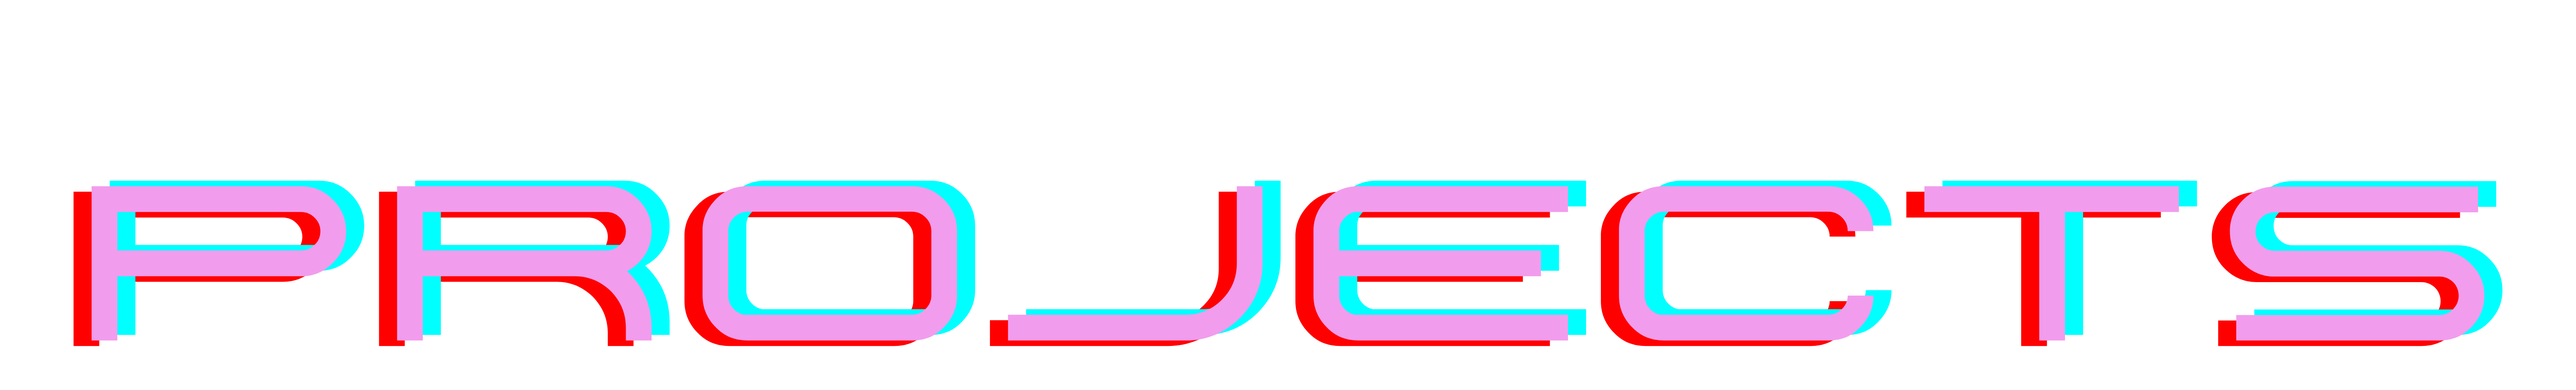
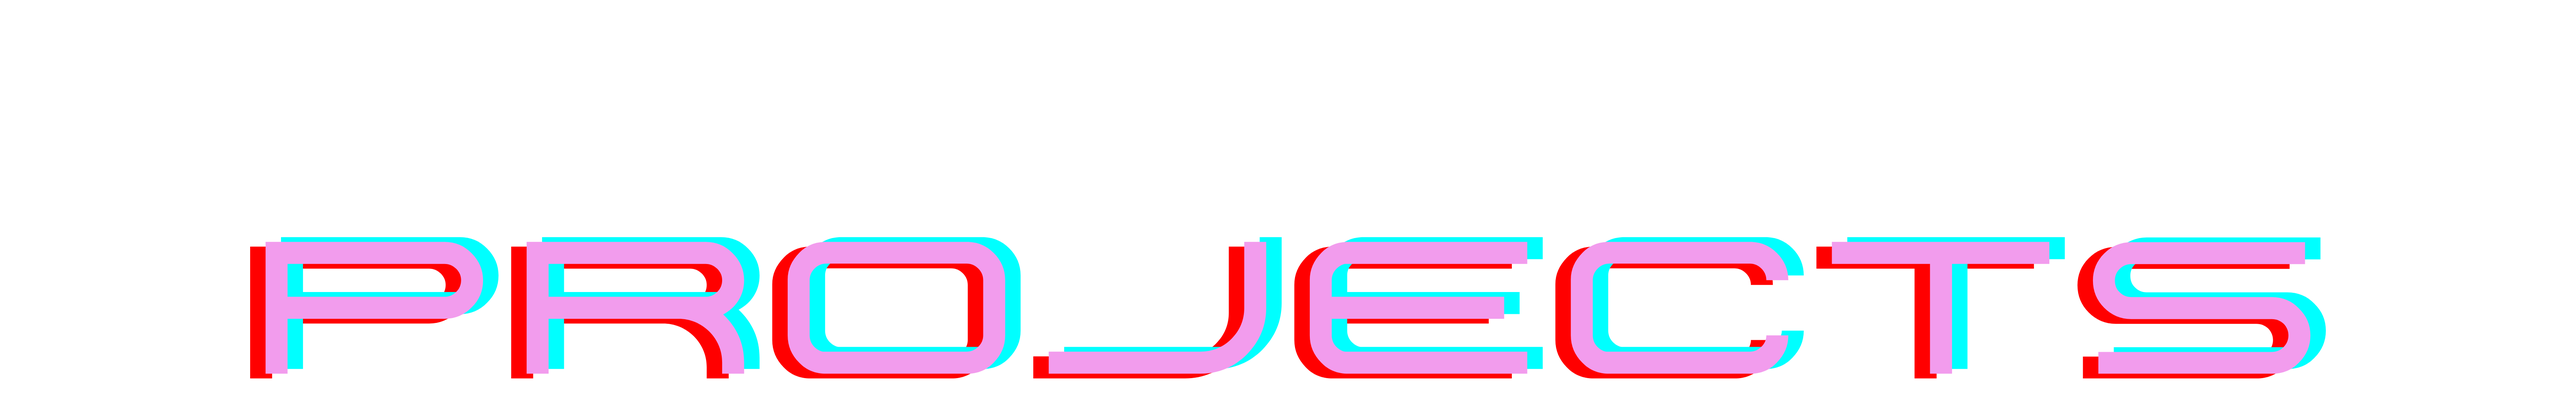
Added a font, shrunk and centered header images, began positioning contact page elements

Changed region(s): [[0.0312, 0.4593, 0.9984, 0.9187]]

diff --git a/portfolio-web/src/App.scss b/portfolio-web/src/App.scss
@@ -13,20 +13,7 @@
   }
 }
 
-.App-header {
-  background-color: #282c34;
-  min-height: 100vh;
-  display: flex;
-  flex-direction: column;
-  align-items: center;
-  justify-content: center;
   font-size: calc(10px + 2vmin);
-  color: white;
-}
-
-.App-link {
-  color: #61dafb;
-}
 
 @keyframes App-logo-spin {
   from {
@@ -40,6 +27,7 @@
 /* Above is original react css i thought there might be some useful things */
 *{
   color: white;
+  font-family: 'Hind Siliguri', sans-serif;
 }
 .background{
   /** Simulationg background-size: cover */
@@ -71,6 +59,48 @@ justify-content: center;
 
 }
 
-.header-container{
-  text-align: center;
+html,body{
+  // enables scrollsnap
+  scroll-snap-type:y mandatory;
+  /* change the above to y proximity if scroll snapping is too jarring */
+}
+
+.page-container{
+  /* splits the website into viewport height sections that can be scroll snapped to */
+  height: 100vh;
+  width: 100%;
+  scroll-snap-align: center;
+  
+}
+
+
+.header-wrapper{
+  width: 100%;
+  height: 10vh;
+  display: flex;
+  justify-content: center;
+}
+
+img{
+  // shrinking images to fit inside their wrappers/parent element
+  width: 100%;
+  height: 100%;
+  object-fit: contain;
+}
+
+.card-outline{
+  width: 5vw;
+  margin: 1vh 1vw;
+}
+
+// Contact form css
+.contact-body-container{
+  margin: 10vh 15vw;
+  display: flex;
+  justify-content: space-around;
+}
+.contact-form{
+  display: flex;
+  flex-direction: column;
+  gap: 1vh;
 }

diff --git a/portfolio-web/src/components/ContactMePage/ContactPage.jsx b/portfolio-web/src/components/ContactMePage/ContactPage.jsx
@@ -14,22 +14,28 @@ const links = [{
 }
 ]
   return (
-    <div>
+    <div className='contact-container'>
       <div className='header-container'>
             <div className='header-wrapper'>
                 <img src="/ContactMeHeader.png" alt="Contact Me" />
             </div>
         </div>
-      <h2>Send me an email</h2>
-      <form action="">
-        <input type="text" placeholder='Email' />
-        <input type="text" name="" placeholder='Name' />
-        <input type="text" placeholder='Subject'/>
-        <input type="text" placeholder='Message'/>
-        <button>Send</button>
-      </form>
-      <h2>Links</h2>
-      <LinkList links={links} />
+      <div className="contact-body-container">
+        <div className="contact-form-container">
+          <h2>Send me an email</h2>
+          <form className='contact-form' action="">
+            <input type="text" placeholder='Email' />
+            <input type="text" name="" placeholder='Name' />
+            <input type="text" placeholder='Subject'/>
+            <input type="text" placeholder='Message'/>
+            <button>Send</button>
+          </form>
+        </div>
+        <div className="links-container">
+          <h2>Links</h2>
+          <LinkList links={links} />
+        </div>
+      </div>
       
 
     </div>

diff --git a/portfolio-web/src/App.jsx b/portfolio-web/src/App.jsx
@@ -9,10 +9,18 @@ function App() {
   return (
     <div className="App">
       <Background/>
-      <HomePage></HomePage>
-      <IntroPage></IntroPage>
-      <ProjectsPage></ProjectsPage>
-      <ContactPage></ContactPage>
+      <div className="page-container">
+        <HomePage></HomePage>
+      </div>
+      <div className="page-container">
+        <IntroPage></IntroPage>
+      </div>
+      <div className="page-container">
+        <ProjectsPage></ProjectsPage>
+      </div>
+      <div className="page-container">
+        <ContactPage></ContactPage>
+      </div>
     </div>
   );
 }

diff --git a/portfolio-web/public/index.html b/portfolio-web/public/index.html
@@ -25,6 +25,9 @@
       Learn how to configure a non-root public URL by running `npm run build`.
     -->
     <title>Sophia Kinsey</title>
+    <style>
+      @import url('https://fonts.googleapis.com/css2?family=Hind+Siliguri:wght@300;400;700&display=swap');
+    </style>
   </head>
   <body>
     <noscript>You need to enable JavaScript to run this app.</noscript>
